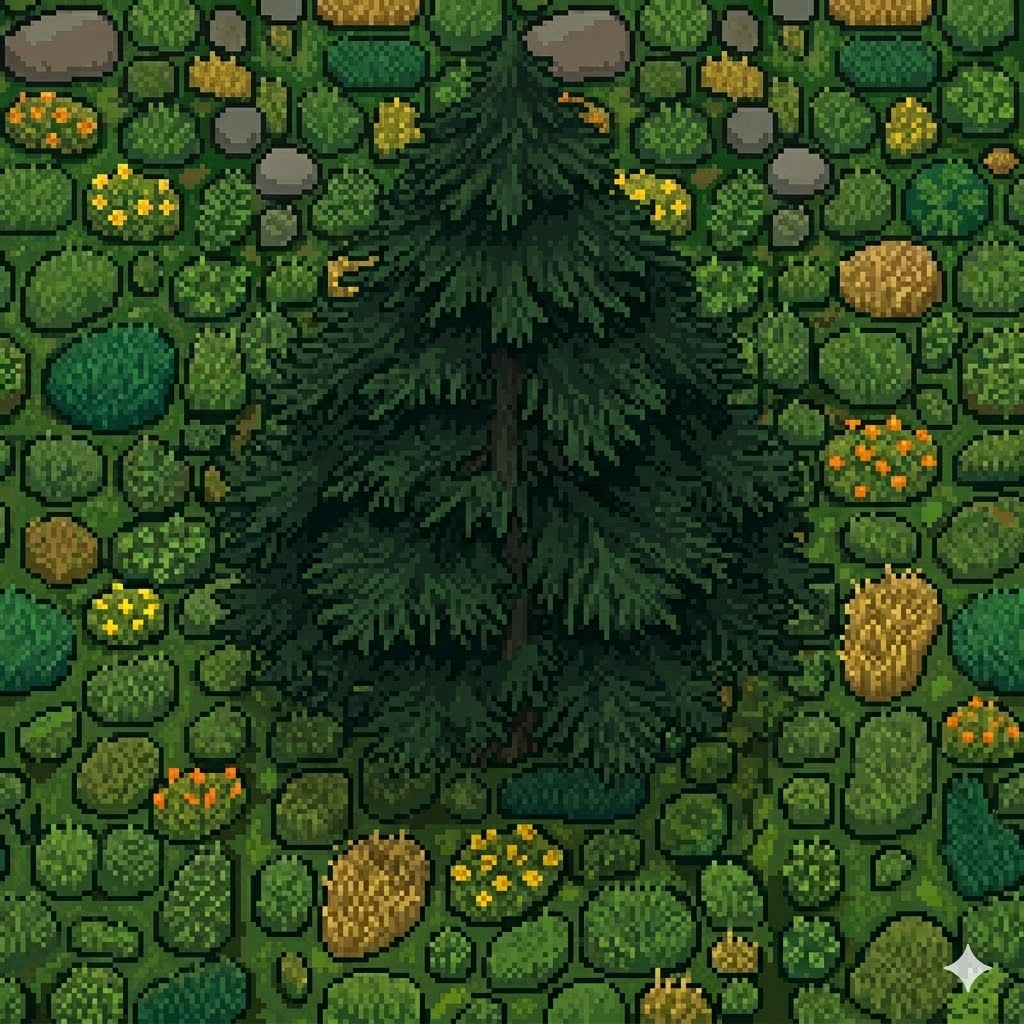
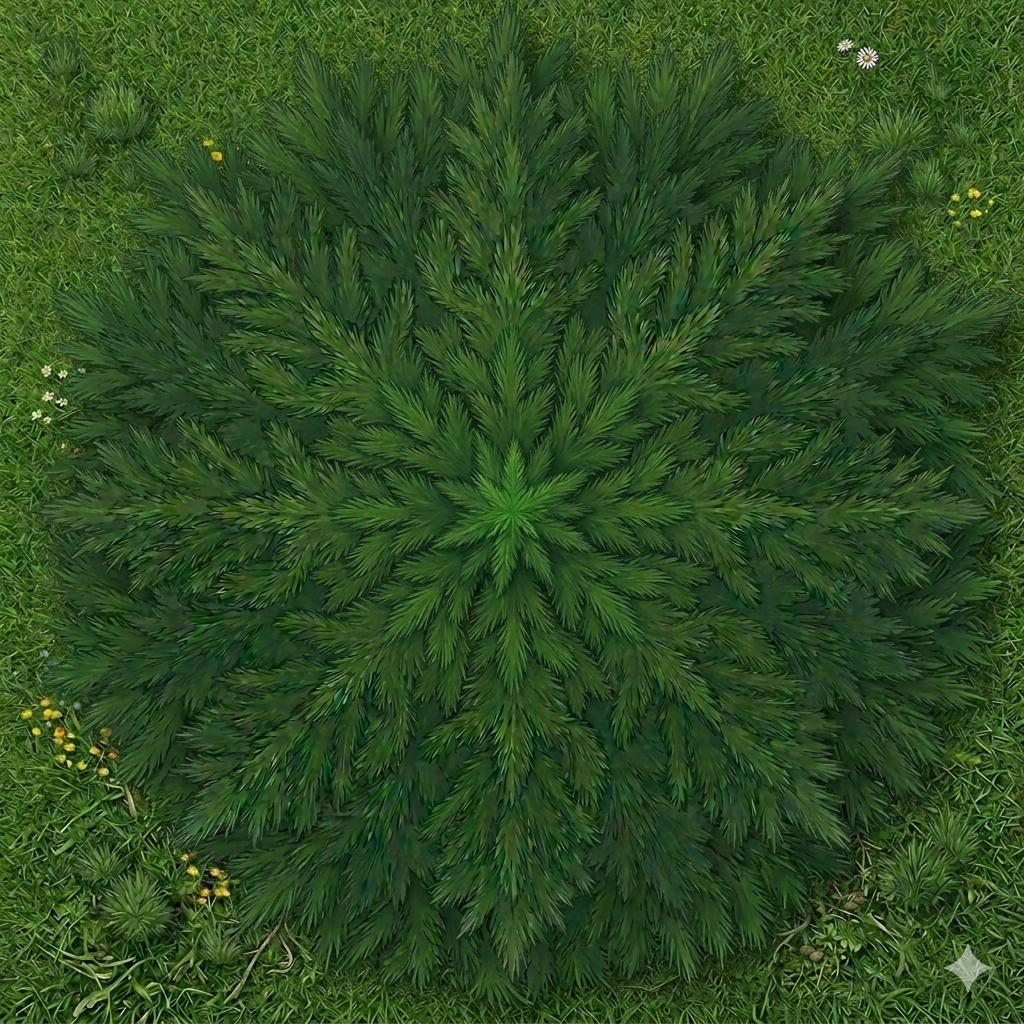
Update Grafik

diff --git a/landschaftsgenerator.py b/landschaftsgenerator.py
@@ -2,7 +2,7 @@ from dataclasses import dataclass
 from typing import List
 import random
 from spiel_lelements import SpielLandschaft, RasterFeld, Landschaftstyp, SpielZeile
-
+#landschaft generieren
 @dataclass
 class LandschaftGenerator:
     
